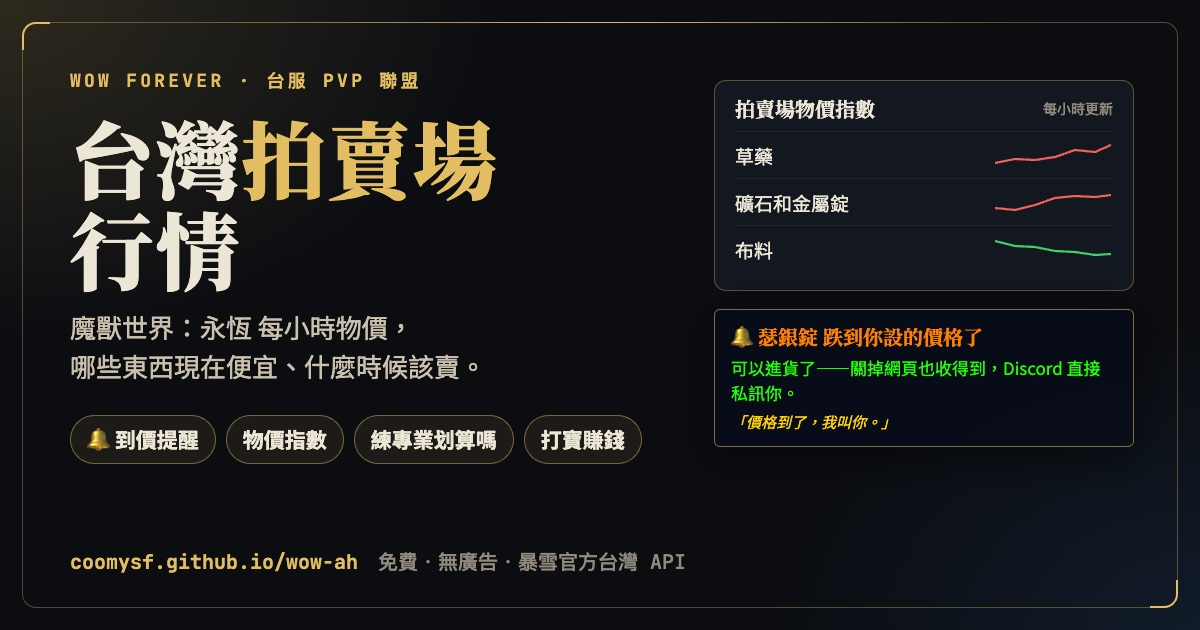
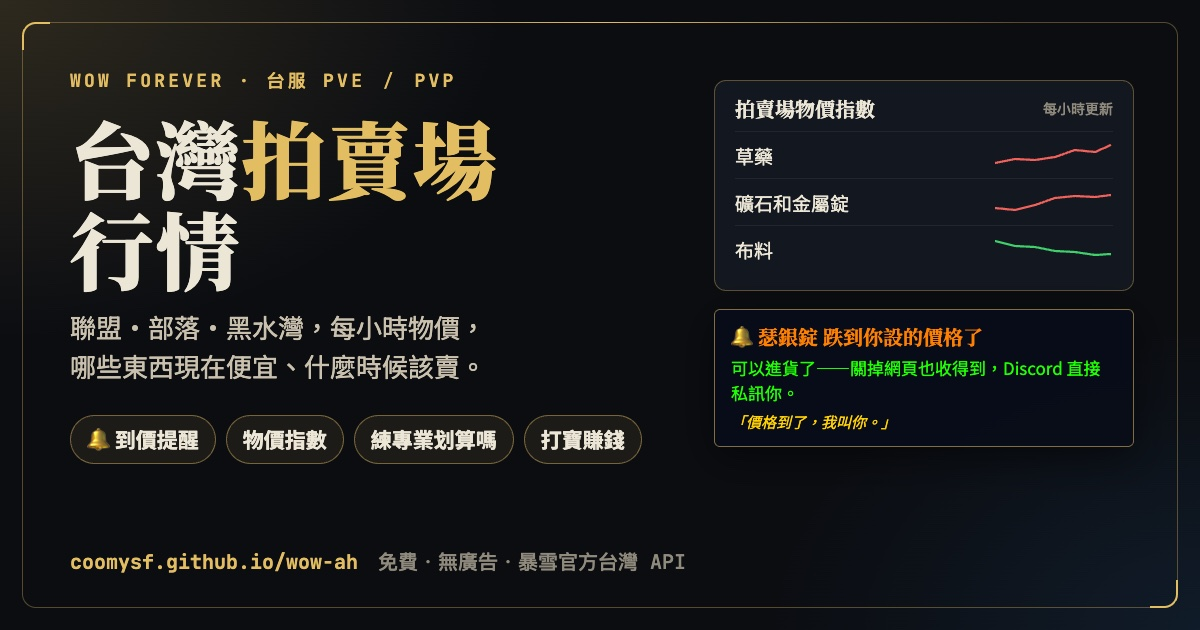
首頁物價指數小卡可切換 PvE／PvP × 聯盟／部落／黑水灣（跟拍賣場頁共用選擇）；分享預覽圖改成 PvE／PvP 與三個陣營

Changed region(s): [[0.0617, 0.4825, 0.4008, 0.5429], [0.3083, 0.0905, 0.37, 0.1508]]

diff --git a/wow-ah/index.html b/wow-ah/index.html
@@ -21,7 +21,7 @@ w.dataLayer=w.dataLayer||[];w.dataLayer.push({'gtm.start':new Date().getTime(),e
 <meta property="og:locale" content="zh_TW">
 <meta property="og:title" content="台灣拍賣場行情｜魔獸世界：永恆 台服物價">
 <meta property="og:description" content="魔獸世界：永恆 台服拍賣場每小時物價：哪些東西現在便宜、什麼時候該賣。設到價提醒，價格一到 Discord 直接私訊你。免費、無廣告。">
-<meta property="og:image" content="https://coomysf.github.io/wow-ah/og.jpg?v=2">
+<meta property="og:image" content="https://coomysf.github.io/wow-ah/og.jpg?v=3">
 <meta property="og:image:width" content="1200">
 <meta property="og:image:height" content="630">
 <meta property="og:image:alt" content="台灣拍賣場行情：魔獸世界：永恆 台服拍賣場物價、到價提醒、練專業、打寶賺錢">
@@ -30,7 +30,7 @@ w.dataLayer=w.dataLayer||[];w.dataLayer.push({'gtm.start':new Date().getTime(),e
 <meta name="twitter:card" content="summary_large_image">
 <meta name="twitter:title" content="台灣拍賣場行情｜魔獸世界：永恆 台服物價">
 <meta name="twitter:description" content="台服拍賣場每小時物價、到價提醒（Discord 私訊）、練專業划算嗎、打寶賺錢。免費、無廣告。">
-<meta name="twitter:image" content="https://coomysf.github.io/wow-ah/og.jpg?v=2">
+<meta name="twitter:image" content="https://coomysf.github.io/wow-ah/og.jpg?v=3">
 <script type="application/ld+json">
 {"@context":"https://schema.org","@graph":[
 {"@type":"WebApplication","name":"台灣拍賣場行情","alternateName":["魔獸世界：永恆 台服拍賣場物價","WoW Forever Taiwan Auction House"],"url":"https://coomysf.github.io/wow-ah/","inLanguage":"zh-TW","applicationCategory":"GameApplication","operatingSystem":"Web","isAccessibleForFree":true,"offers":{"@type":"Offer","price":"0","priceCurrency":"TWD"},"areaServed":{"@type":"Country","name":"台灣"},"about":{"@type":"VideoGame","name":"魔獸世界：永恆","alternateName":"World of Warcraft: Forever","publisher":"Blizzard Entertainment"},"description":"魔獸世界：永恆台灣伺服器 聯盟拍賣場每小時物價走勢、7 日均價偏離、成交量與便宜時段。","author":{"@type":"Person","name":"Coomy","url":"https://coomysf.github.io/about/"}},

diff --git a/assets/css/cinema.css b/assets/css/cinema.css
@@ -541,6 +541,13 @@ html.film-static .letterbox, html.film-static .fin-mark, html.film-static .film-
 .ah-s svg { display: block; }
 .ah-v, .ah-c { text-align: right; font-weight: 700; font-variant-numeric: tabular-nums; font-size: 15px; }
 .ah-empty { margin: 10px 0; color: var(--film-muted); font-size: 13px; }
+.ah-link { display: block; color: inherit; text-decoration: none; }
+.ah-houses { display: flex; flex-wrap: wrap; gap: 6px 10px; margin-top: 10px; }
+.ah-seg { display: inline-flex; border: 1px solid rgba(220, 148, 124, .28); border-radius: 999px; overflow: hidden; }
+.ah-seg button { appearance: none; border: 0; background: transparent; color: var(--film-muted); font: inherit; font-size: 12px; padding: 4px 11px; cursor: pointer; }
+.ah-seg button + button { border-left: 1px solid rgba(220, 148, 124, .2); }
+.ah-seg button[aria-pressed="true"] { background: rgba(220, 148, 124, .16); color: var(--film-ink, #f3e9df); font-weight: 700; }
+.ah-seg button:focus-visible { outline: 2px solid rgba(220, 148, 124, .7); outline-offset: -2px; }
 .ah-foot { margin: 8px 0 0; font-size: 11.5px; color: var(--film-muted); opacity: .8; }
 @media (max-width: 480px) {
   .ah-card { padding: 16px 14px 12px; }
